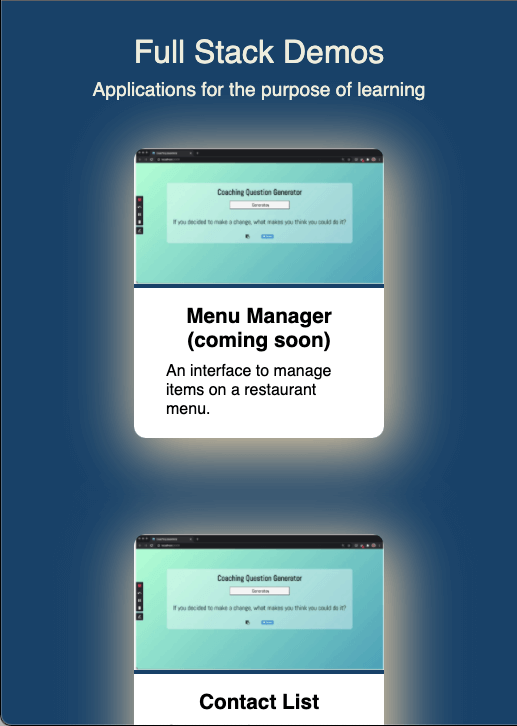
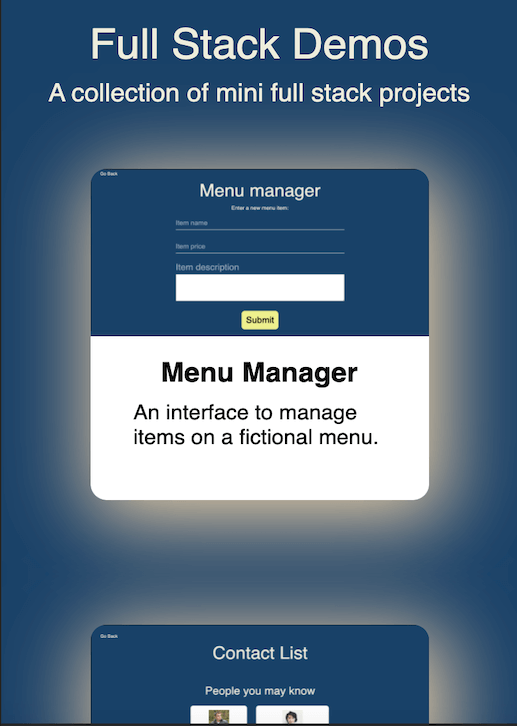
updated fullstack demos project info and images

diff --git a/index.html b/index.html
@@ -262,15 +262,13 @@
 					/>
 				</div>
 				<div class="projects__project__text">
-					<h3 class="projects__project__title">
-						Fullstack Demos (work in progress)
-					</h3>
+					<h3 class="projects__project__title">Fullstack Demos</h3>
 					<p class="projects__project__description">
 						A collection of three mini fullstack applications. Each application
 						stores/retrieves data from a MongoDB database, with the backend
-						hosted on Heroku. Menu Manager (coming soon!) and Contact List use
-						full CRUD functionality, while URL Shortener creates and reads.
-						Created using TDD, testing with React Testing Library / Jest.
+						hosted on Heroku. Menu Manager and Contact List use full CRUD
+						functionality, while URL Shortener creates and reads. Created using
+						TDD, testing with React Testing Library / Jest.
 					</p>
 					<p class="projects__project__tech">
 						<strong class="projects__project--strong">Technologies</strong>:
